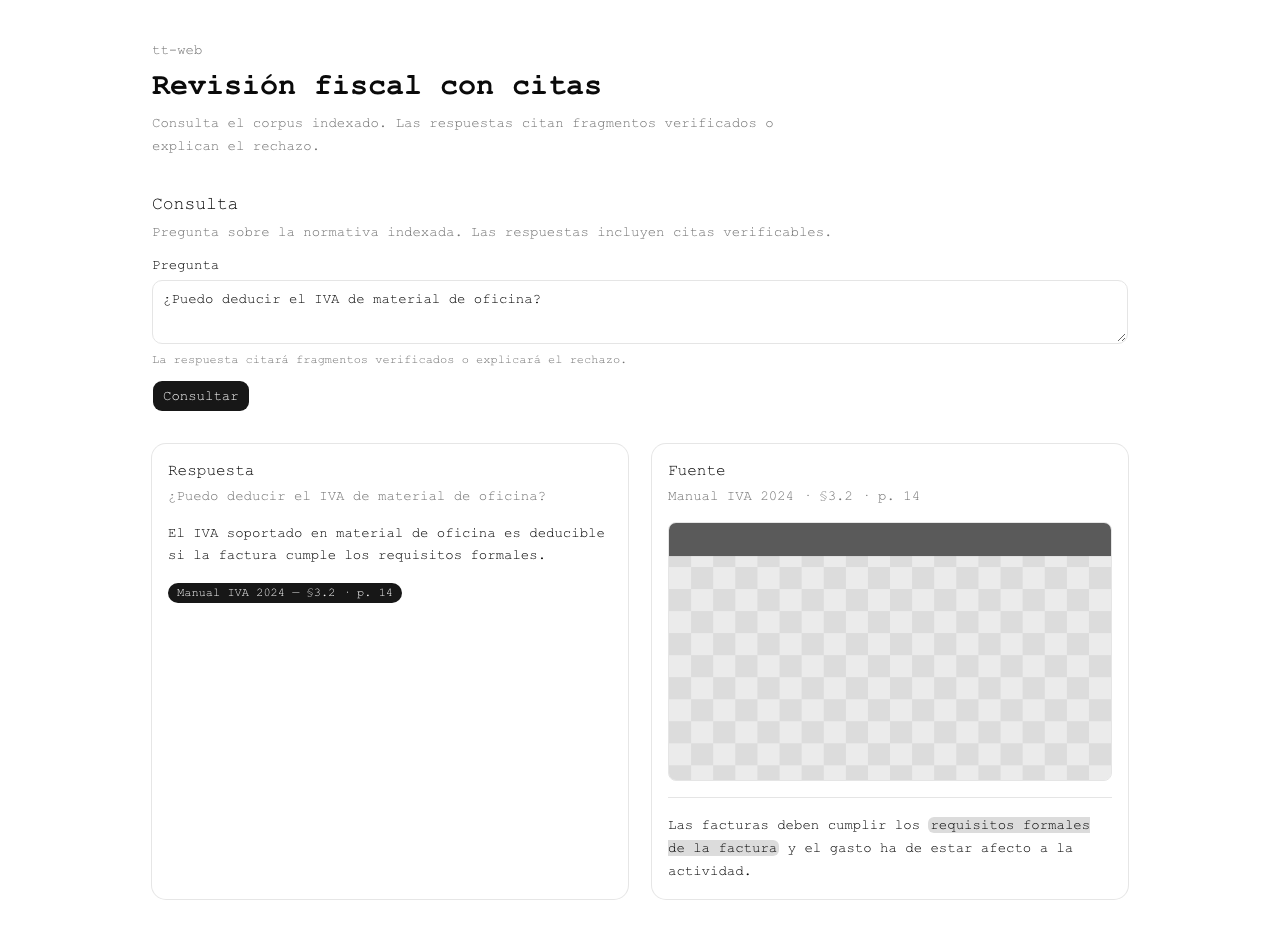
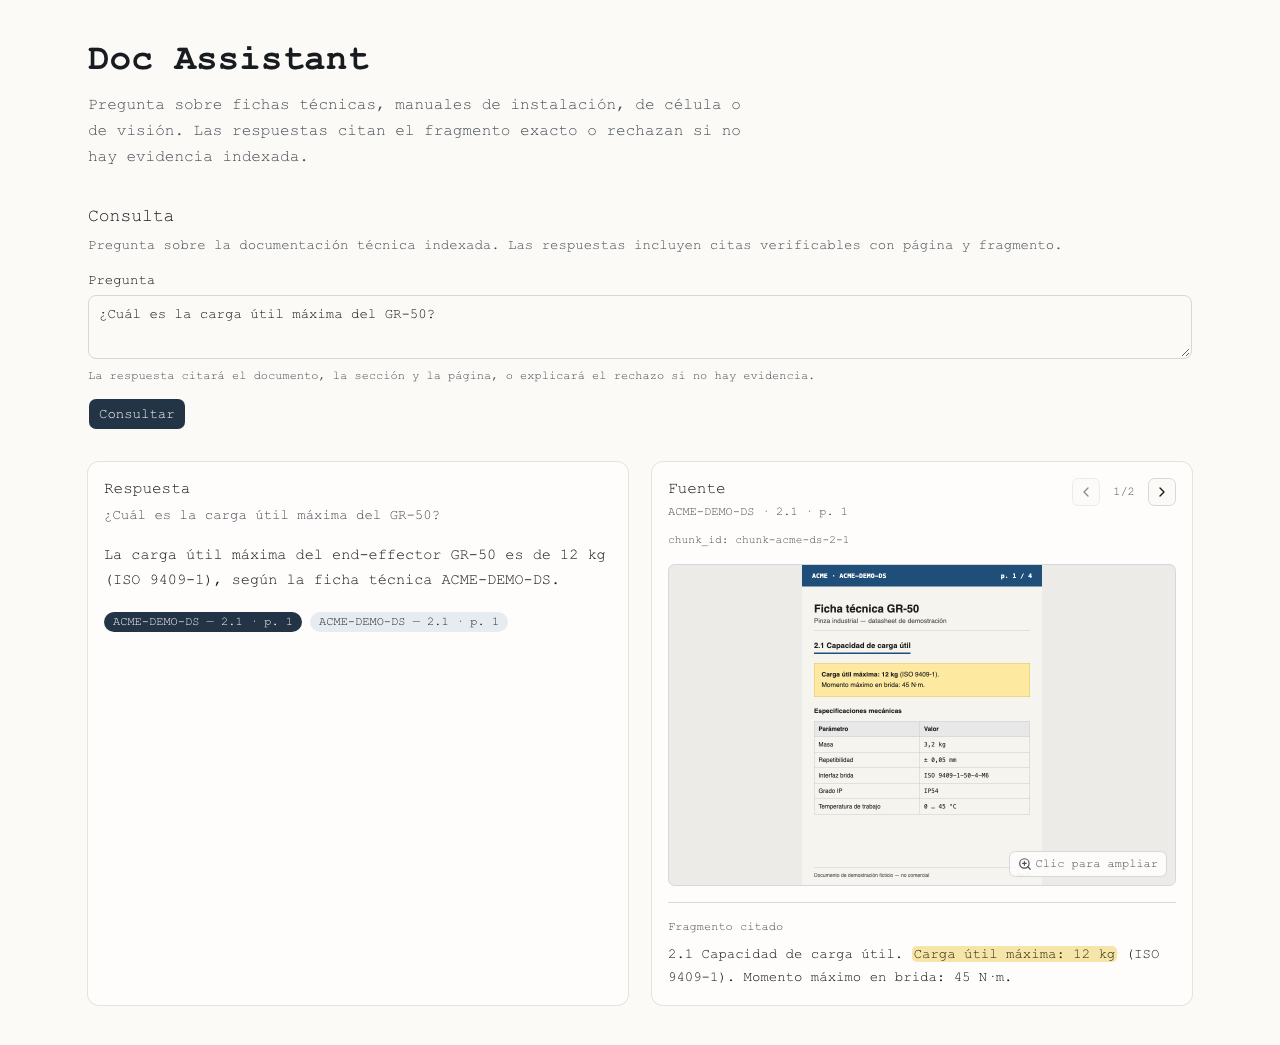
test(web): technical fixtures and desktop/mobile screenshots
Use ACME-DEMO-DS datasheet fixtures and capture stable 1280x800 plus 390x844 evidence screenshots.

diff --git a/apps/web/e2e/ask.spec.ts b/apps/web/e2e/ask.spec.ts
@@ -3,13 +3,19 @@ import path from "node:path"
 import { expect, test, type Page } from "@playwright/test"
 
 import {
+  DEMO_QUESTION,
   askAnswerWithCitation,
   askError,
   askRefusal,
-  PAGE_PNG_BASE64,
+  PAGE_PNG,
 } from "./fixtures"
 
 const SCREENSHOT_DIR = path.join("..", "..", "evidence", "screenshots")
+
+const VIEWPORTS = {
+  desktop: { width: 1280, height: 800 },
+  mobile: { width: 390, height: 844 },
+} as const
 
 async function stabilize(page: Page) {
   await page.addStyleTag({
@@ -27,98 +33,120 @@ async function stabilize(page: Page) {
   })
 }
 
+async function mockAskOk(page: Page) {
+  await page.route("**/api/ask", async (route) => {
+    await route.fulfill({
+      status: 200,
+      contentType: "application/json",
+      body: JSON.stringify(askAnswerWithCitation),
+    })
+  })
+  await page.route("**/api/sources/**/pages/**", async (route) => {
+    await route.fulfill({
+      status: 200,
+      contentType: "image/png",
+      body: PAGE_PNG,
+    })
+  })
+}
+
+async function captureFlow(
+  page: Page,
+  name: string,
+  viewport: keyof typeof VIEWPORTS,
+  run: () => Promise<void>
+) {
+  await page.setViewportSize(VIEWPORTS[viewport])
+  await page.goto("/")
+  await stabilize(page)
+  await run()
+  const suffix = viewport === "desktop" ? "" : "-mobile"
+  await page.screenshot({
+    path: path.join(SCREENSHOT_DIR, `${name}${suffix}.png`),
+    fullPage: true,
+  })
+}
+
 test.describe("ask flow screenshots", () => {
-  test("respuesta con cita y visor de fuente", async ({ page }) => {
-    await page.route("**/api/ask", async (route) => {
-      await route.fulfill({
-        status: 200,
-        contentType: "application/json",
-        body: JSON.stringify(askAnswerWithCitation),
-      })
-    })
-    await page.route("**/api/sources/**/pages/**", async (route) => {
-      await route.fulfill({
-        status: 200,
-        contentType: "image/png",
-        body: Buffer.from(PAGE_PNG_BASE64, "base64"),
-      })
-    })
+  for (const viewport of ["desktop", "mobile"] as const) {
+    test(`respuesta con cita y visor (${viewport})`, async ({ page }) => {
+      await mockAskOk(page)
 
-    await page.goto("/")
-    await stabilize(page)
+      await captureFlow(page, "ask-answer-with-source", viewport, async () => {
+        await page.getByLabel("Pregunta").fill(DEMO_QUESTION)
+        await page.getByRole("button", { name: "Consultar" }).click()
 
-    await page.getByLabel("Pregunta").fill("¿Puedo deducir el IVA de material de oficina?")
-    await page.getByRole("button", { name: "Consultar" }).click()
+        await expect(page.getByText(askAnswerWithCitation.answer)).toBeVisible()
+        await expect(
+          page.getByRole("button", { name: /Ver fuente: ACME-DEMO-DS/ }).first()
+        ).toBeVisible()
 
-    await expect(page.getByText(askAnswerWithCitation.answer)).toBeVisible()
-    await page
-      .getByRole("button", { name: /Ver fuente: Manual IVA 2024/ })
-      .click()
-    const pageImage = page.getByRole("img", {
-      name: /Página 14 de Manual IVA 2024/,
-    })
-    await expect(pageImage).toBeVisible()
-    await expect
-      .poll(async () =>
-        pageImage.evaluate((el) => (el as HTMLImageElement).naturalWidth)
-      )
-      .toBeGreaterThan(0)
-    await expect(page.locator("mark")).toHaveText(
-      askAnswerWithCitation.citations[0].quote
-    )
+        const pageImage = page.getByRole("img", {
+          name: /Página 1 de ACME-DEMO-DS/,
+        })
+        await expect(pageImage).toBeVisible()
+        await expect
+          .poll(async () =>
+            pageImage.evaluate((el) => (el as HTMLImageElement).naturalWidth)
+          )
+          .toBeGreaterThan(0)
+        await expect(page.locator("mark")).toHaveText(
+          askAnswerWithCitation.citations[0].quote
+        )
 
-    await page.screenshot({
-      path: path.join(SCREENSHOT_DIR, "ask-answer-with-source.png"),
-      fullPage: true,
-    })
-  })
-
-  test("rechazo", async ({ page }) => {
-    await page.route("**/api/ask", async (route) => {
-      await route.fulfill({
-        status: 200,
-        contentType: "application/json",
-        body: JSON.stringify(askRefusal),
+        if (askAnswerWithCitation.citations.length > 1) {
+          await expect(
+            page.getByRole("button", { name: "Cita siguiente" })
+          ).toBeEnabled()
+        }
       })
     })
 
-    await page.goto("/")
-    await stabilize(page)
+    test(`rechazo (${viewport})`, async ({ page }) => {
+      await page.route("**/api/ask", async (route) => {
+        await route.fulfill({
+          status: 200,
+          contentType: "application/json",
+          body: JSON.stringify(askRefusal),
+        })
+      })
 
-    await page.getByLabel("Pregunta").fill("¿Cómo eludo el IVA?")
-    await page.getByRole("button", { name: "Consultar" }).click()
+      await captureFlow(page, "ask-refusal", viewport, async () => {
+        await page
+          .getByLabel("Pregunta")
+          .fill("¿Cuál es el firmware secreto del controlador?")
+        await page.getByRole("button", { name: "Consultar" }).click()
 
-    await expect(page.getByTestId("refusal-notice")).toBeVisible()
-    await expect(page.getByText(askRefusal.reason)).toBeVisible()
-
-    await page.screenshot({
-      path: path.join(SCREENSHOT_DIR, "ask-refusal.png"),
-      fullPage: true,
-    })
-  })
-
-  test("error tipado del API", async ({ page }) => {
-    await page.route("**/api/ask", async (route) => {
-      await route.fulfill({
-        status: 502,
-        contentType: "application/json",
-        body: JSON.stringify(askError),
+        await expect(page.getByTestId("refusal-notice")).toBeVisible()
+        await expect(page.getByText(askRefusal.reason)).toBeVisible()
+        await expect(
+          page.getByText(
+            "No hay evidencia en los documentos indexados; no se inventa una respuesta."
+          )
+        ).toBeVisible()
       })
     })
 
-    await page.goto("/")
-    await stabilize(page)
+    test(`error tipado del API (${viewport})`, async ({ page }) => {
+      await page.route("**/api/ask", async (route) => {
+        await route.fulfill({
+          status: 502,
+          contentType: "application/json",
+          body: JSON.stringify(askError),
+        })
+      })
 
-    await page.getByLabel("Pregunta").fill("¿Cuál es el tipo general de IVA?")
-    await page.getByRole("button", { name: "Consultar" }).click()
+      await captureFlow(page, "ask-error", viewport, async () => {
+        await page.getByLabel("Pregunta").fill(DEMO_QUESTION)
+        await page.getByRole("button", { name: "Consultar" }).click()
 
-    await expect(page.getByTestId("ask-error-notice")).toBeVisible()
-    await expect(page.getByText(askError.message)).toBeVisible()
-    await expect(page.getByText(`Error (${askError.code})`)).toBeVisible()
-
-    await page.screenshot({
-      path: path.join(SCREENSHOT_DIR, "ask-error.png"),
-      fullPage: true,
+        await expect(page.getByTestId("ask-error-notice")).toBeVisible()
+        await expect(page.getByText(askError.message)).toBeVisible()
+        await expect(page.getByText(`Error (${askError.code})`)).toBeVisible()
+        await expect(
+          page.getByRole("button", { name: "Reintentar" })
+        ).toBeVisible()
+      })
     })
-  })
+  }
 })

diff --git a/apps/web/e2e/fixtures.ts b/apps/web/e2e/fixtures.ts
@@ -1,18 +1,32 @@
+import fs from "node:fs"
+import path from "node:path"
+
 import type { AskResponse, ErrorBody } from "../src/lib/api/types"
+
+export const DEMO_QUESTION = "¿Cuál es la carga útil máxima del GR-50?"
 
 export const askAnswerWithCitation = {
   ok: true,
   answer:
-    "El IVA soportado en material de oficina es deducible si la factura cumple los requisitos formales.",
+    "La carga útil máxima del end-effector GR-50 es de 12 kg (ISO 9409-1), según la ficha técnica ACME-DEMO-DS.",
   citations: [
     {
-      chunk_id: "chunk-iva-1",
-      quote: "requisitos formales de la factura",
-      doc: "Manual IVA 2024",
-      section: "§3.2",
-      pages: [14],
+      chunk_id: "chunk-acme-ds-2-1",
+      quote: "Carga útil máxima: 12 kg",
+      doc: "ACME-DEMO-DS",
+      section: "2.1",
+      pages: [1],
       fragment:
-        "Las facturas deben cumplir los requisitos formales de la factura y el gasto ha de estar afecto a la actividad.",
+        "2.1 Capacidad de carga útil. Carga útil máxima: 12 kg (ISO 9409-1). Momento máximo en brida: 45 N·m.",
+    },
+    {
+      chunk_id: "chunk-acme-ds-flange",
+      quote: "ISO 9409-1-50-4-M6",
+      doc: "ACME-DEMO-DS",
+      section: "2.1",
+      pages: [1],
+      fragment:
+        "Interfaz brida: ISO 9409-1-50-4-M6. Grado de protección IP54. Temperatura de trabajo 0 … 45 °C.",
     },
   ],
   reason: "",
@@ -22,7 +36,7 @@ export const askRefusal = {
   ok: false,
   answer: "",
   citations: [],
-  reason: "La consulta pide una estrategia de elusión fiscal.",
+  reason: "No hay pasajes indexados que respondan a la consulta.",
 } as const satisfies AskResponse
 
 export const askError = {
@@ -30,6 +44,7 @@ export const askError = {
   message: "El modelo no está disponible.",
 } as const satisfies ErrorBody
 
-/** 64×40 PNG gris sólido (determinista para capturas). */
-export const PAGE_PNG_BASE64 =
[1 lines of base64/hex data omitted]
+/** Página sintética de ficha técnica (generada, no checkerboard). */
+export const PAGE_PNG = fs.readFileSync(
+  path.join(process.cwd(), "e2e", "fixtures", "page-acme-demo-ds.png")
+)

diff --git a/apps/web/playwright.config.ts b/apps/web/playwright.config.ts
@@ -13,7 +13,7 @@ export default defineConfig({
   },
   use: {
     baseURL: "http://127.0.0.1:3000",
-    viewport: { width: 1280, height: 720 },
+    viewport: { width: 1280, height: 800 },
     deviceScaleFactor: 1,
     locale: "es-ES",
     timezoneId: "Europe/Madrid",
@@ -26,6 +26,7 @@ export default defineConfig({
       use: {
         ...devices["Desktop Chrome"],
         defaultBrowserType: "chromium",
+        viewport: { width: 1280, height: 800 },
       },
     },
   ],
